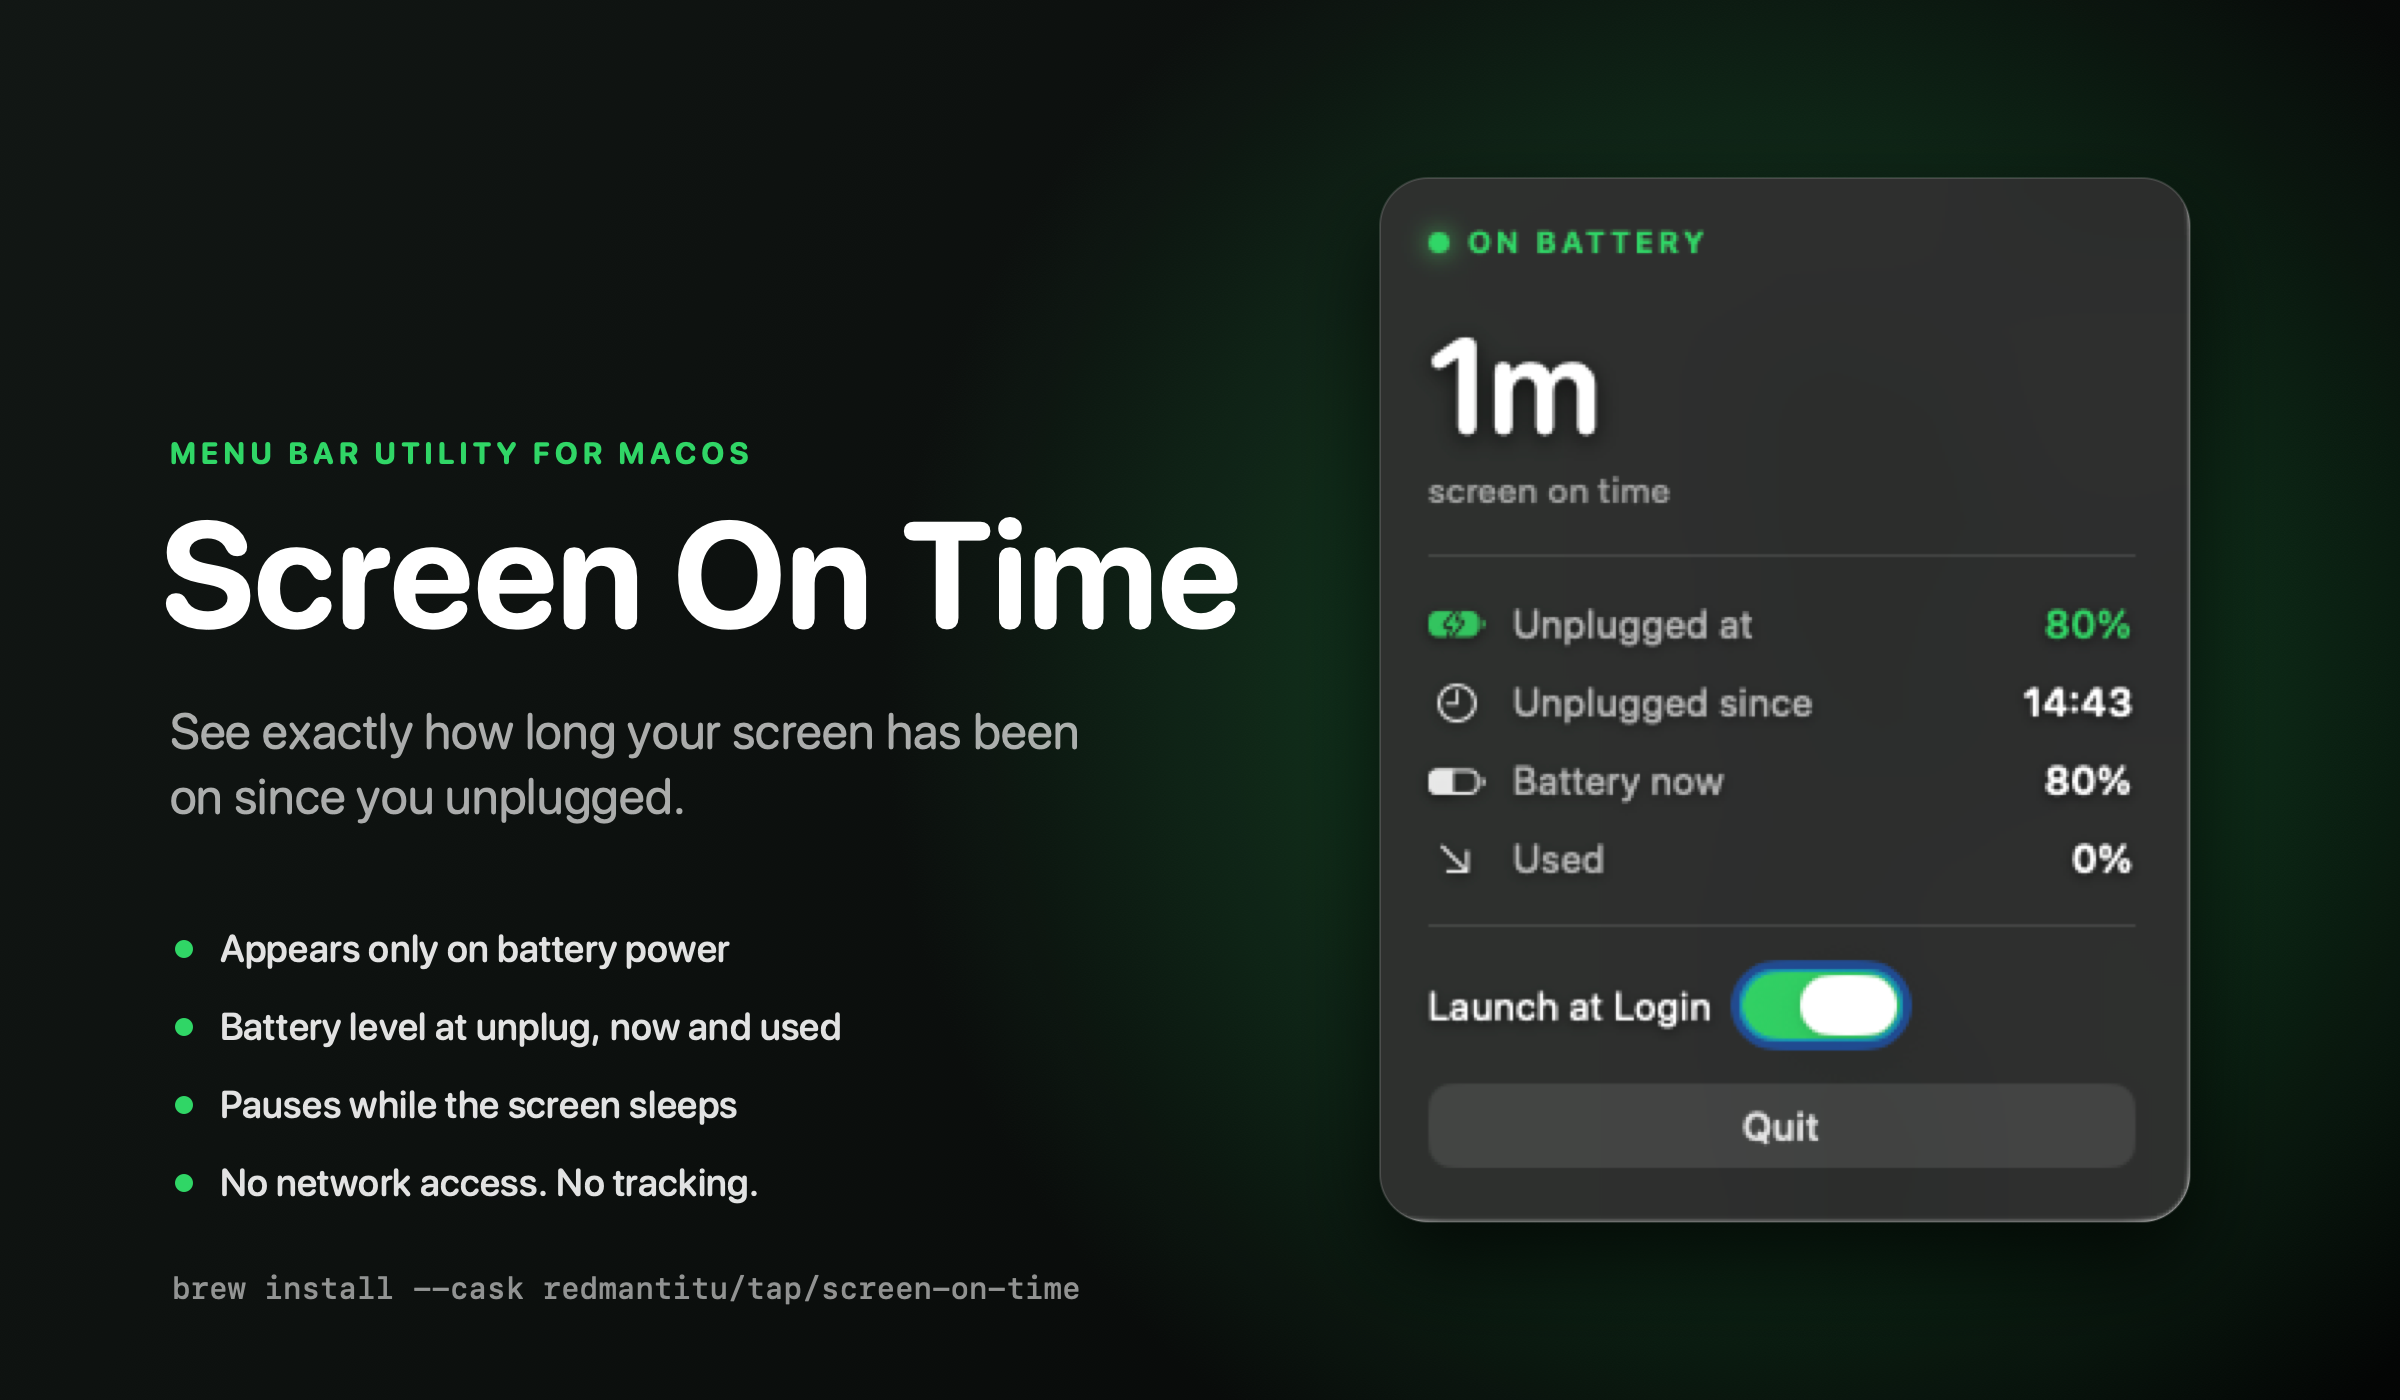
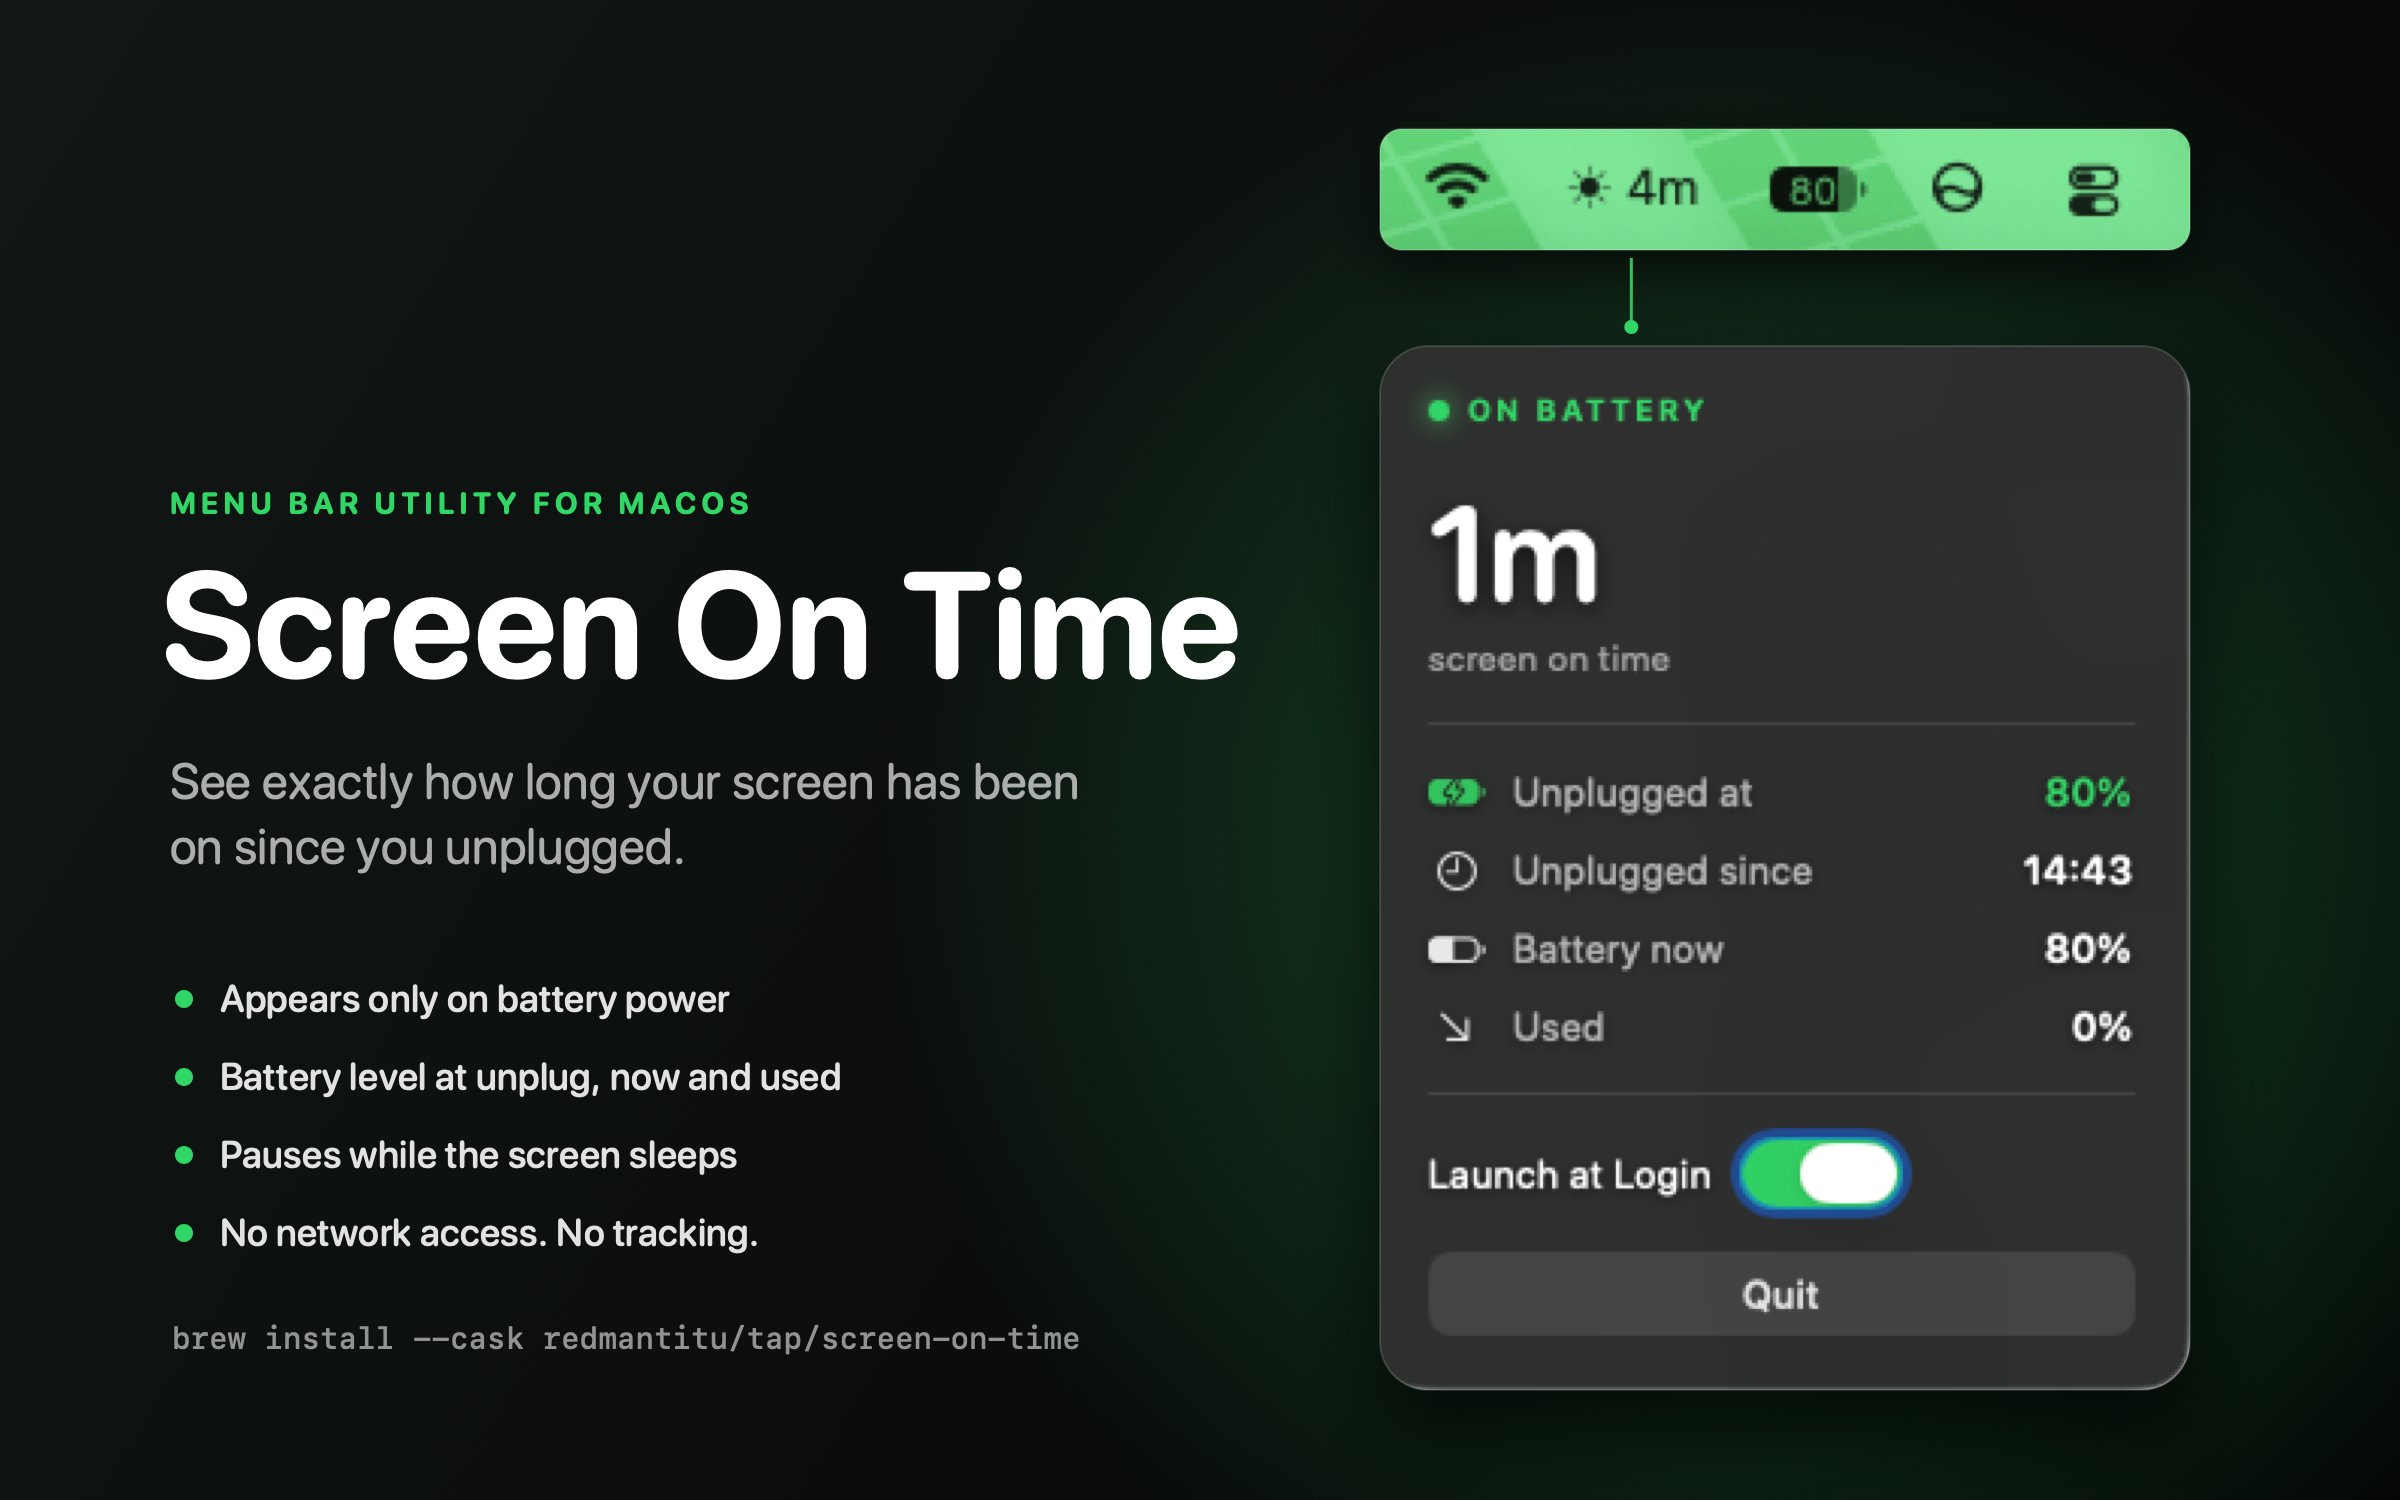
Hero image: add menu bar view above the panel

diff --git a/scripts/make_hero.swift b/scripts/make_hero.swift
@@ -1,14 +1,16 @@
 // Composes a product-style hero image from a raw screenshot of the panel.
-// Usage: swiftc -O scripts/make_hero.swift -o /tmp/make_hero && /tmp/make_hero in.png out.png
+// Usage: swiftc -O scripts/make_hero.swift -o /tmp/make_hero && /tmp/make_hero panel.png menubar.png out.png
 import AppKit
 
 let args = CommandLine.arguments
-guard args.count == 3, let src = NSImage(contentsOfFile: args[1]),
-      let srcCG = src.cgImage(forProposedRect: nil, context: nil, hints: nil) else {
-    print("usage: make_hero <in.png> <out.png>"); exit(1)
+guard args.count == 4, let src = NSImage(contentsOfFile: args[1]),
+      let srcCG = src.cgImage(forProposedRect: nil, context: nil, hints: nil),
+      let mb = NSImage(contentsOfFile: args[2]),
+      let mbCG = mb.cgImage(forProposedRect: nil, context: nil, hints: nil) else {
+    print("usage: make_hero <panel.png> <menubar.png> <out.png>"); exit(1)
 }
 
-let W = 2400, H = 1400
+let W = 2400, H = 1500
 let cs = CGColorSpaceCreateDeviceRGB()
 let ctx = CGContext(data: nil, width: W, height: H, bitsPerComponent: 8, bytesPerRow: 0,
                     space: cs, bitmapInfo: CGImageAlphaInfo.premultipliedLast.rawValue)!
@@ -25,7 +27,7 @@ ctx.drawLinearGradient(bg, start: CGPoint(x: 0, y: H), end: CGPoint(x: W, y: 0),
 
 // Green glow behind the panel
 let panelW = 810.0, panelH = 1044.0
-let px = 1380.0, py = (Double(H) - panelH) / 2
+let px = 1380.0, py = 110.0
 let glow = CGGradient(colorsSpace: cs, colors: [rgb(0.19, 0.84, 0.40, 0.32), rgb(0.19, 0.84, 0.40, 0)] as CFArray, locations: [0, 1])!
 ctx.drawRadialGradient(glow, startCenter: CGPoint(x: px + panelW / 2, y: py + panelH / 2), startRadius: 0,
                        endCenter: CGPoint(x: px + panelW / 2, y: py + panelH / 2), endRadius: 900, options: [])
@@ -48,6 +50,25 @@ ctx.draw(panelImg, in: rect)
 ctx.restoreGState()
 ctx.addPath(path); ctx.setStrokeColor(rgb(1, 1, 1, 0.14)); ctx.setLineWidth(2); ctx.strokePath()
 
+// Menu bar strip (top 32px of the capture) above the panel, with a pointer down to the panel
+let mbCrop = CGRect(x: 14, y: 0, width: 214, height: 32)
+let strip = mbCG.cropping(to: mbCrop)!
+let stripW = panelW, stripH = panelW * 32.0 / 214.0
+let stripRect = CGRect(x: px, y: 1250, width: stripW, height: stripH)
+let sPath = CGPath(roundedRect: stripRect, cornerWidth: 22, cornerHeight: 22, transform: nil)
+ctx.saveGState()
+ctx.setShadow(offset: CGSize(width: 0, height: -24), blur: 60, color: rgb(0, 0, 0, 0.6))
+ctx.addPath(sPath); ctx.setFillColor(rgb(0.1, 0.1, 0.1)); ctx.fillPath()
+ctx.restoreGState()
+ctx.saveGState(); ctx.addPath(sPath); ctx.clip(); ctx.draw(strip, in: stripRect); ctx.restoreGState()
+ctx.addPath(sPath); ctx.setStrokeColor(rgb(1, 1, 1, 0.18)); ctx.setLineWidth(2); ctx.strokePath()
+// pointer from the "4m" item down to the panel
+let tipX = px + stripW * ((80.4 - 14.0) / 214.0)
+ctx.setStrokeColor(rgb(0.19, 0.84, 0.40, 0.9)); ctx.setLineWidth(3)
+ctx.move(to: CGPoint(x: tipX, y: stripRect.minY - 8)); ctx.addLine(to: CGPoint(x: tipX, y: py + panelH + 18)); ctx.strokePath()
+ctx.setFillColor(rgb(0.19, 0.84, 0.40, 1))
+ctx.fillEllipse(in: CGRect(x: tipX - 7, y: py + panelH + 12, width: 14, height: 14))
+
 // Text
 func rounded(_ size: CGFloat, _ weight: NSFont.Weight) -> NSFont {
     let base = NSFont.systemFont(ofSize: size, weight: weight)
@@ -58,22 +79,22 @@ func draw(_ s: String, _ font: NSFont, _ color: NSColor, at p: CGPoint, kern: CG
     NSAttributedString(string: s, attributes: [.font: font, .foregroundColor: color, .kern: kern]).draw(at: p)
 }
 let green = NSColor(red: 0.19, green: 0.84, blue: 0.40, alpha: 1)
-draw("MENU BAR UTILITY FOR MACOS", rounded(30, .bold), green, at: CGPoint(x: 170, y: 930), kern: 5)
-draw("Screen On Time", rounded(150, .bold), .white, at: CGPoint(x: 160, y: 740))
-draw("See exactly how long your screen has been", rounded(50, .regular), NSColor(white: 1, alpha: 0.65), at: CGPoint(x: 170, y: 640))
-draw("on since you unplugged.", rounded(50, .regular), NSColor(white: 1, alpha: 0.65), at: CGPoint(x: 170, y: 575))
+draw("MENU BAR UTILITY FOR MACOS", rounded(30, .bold), green, at: CGPoint(x: 170, y: 980), kern: 5)
+draw("Screen On Time", rounded(150, .bold), .white, at: CGPoint(x: 160, y: 790))
+draw("See exactly how long your screen has been", rounded(50, .regular), NSColor(white: 1, alpha: 0.65), at: CGPoint(x: 170, y: 690))
+draw("on since you unplugged.", rounded(50, .regular), NSColor(white: 1, alpha: 0.65), at: CGPoint(x: 170, y: 625))
 
 let bullets = ["Appears only on battery power", "Battery level at unplug, now and used",
                "Pauses while the screen sleeps", "No network access. No tracking."]
 for (i, b) in bullets.enumerated() {
-    let y = 430.0 - Double(i) * 78
+    let y = 480.0 - Double(i) * 78
     ctx.setFillColor(green.cgColor)
     ctx.fillEllipse(in: CGRect(x: 175, y: y + 12, width: 18, height: 18))
     draw(b, rounded(38, .medium), NSColor(white: 1, alpha: 0.88), at: CGPoint(x: 220, y: y))
 }
 draw("brew install --cask redmantitu/tap/screen-on-time", NSFont.monospacedSystemFont(ofSize: 30, weight: .medium),
-     NSColor(white: 1, alpha: 0.55), at: CGPoint(x: 172, y: 95))
+     NSColor(white: 1, alpha: 0.55), at: CGPoint(x: 172, y: 145))
 
 let out = NSBitmapImageRep(cgImage: ctx.makeImage()!)
-try! out.representation(using: .png, properties: [:])!.write(to: URL(fileURLWithPath: args[2]))
-print("wrote \(args[2])")
+try! out.representation(using: .png, properties: [:])!.write(to: URL(fileURLWithPath: args[3]))
+print("wrote \(args[3])")
